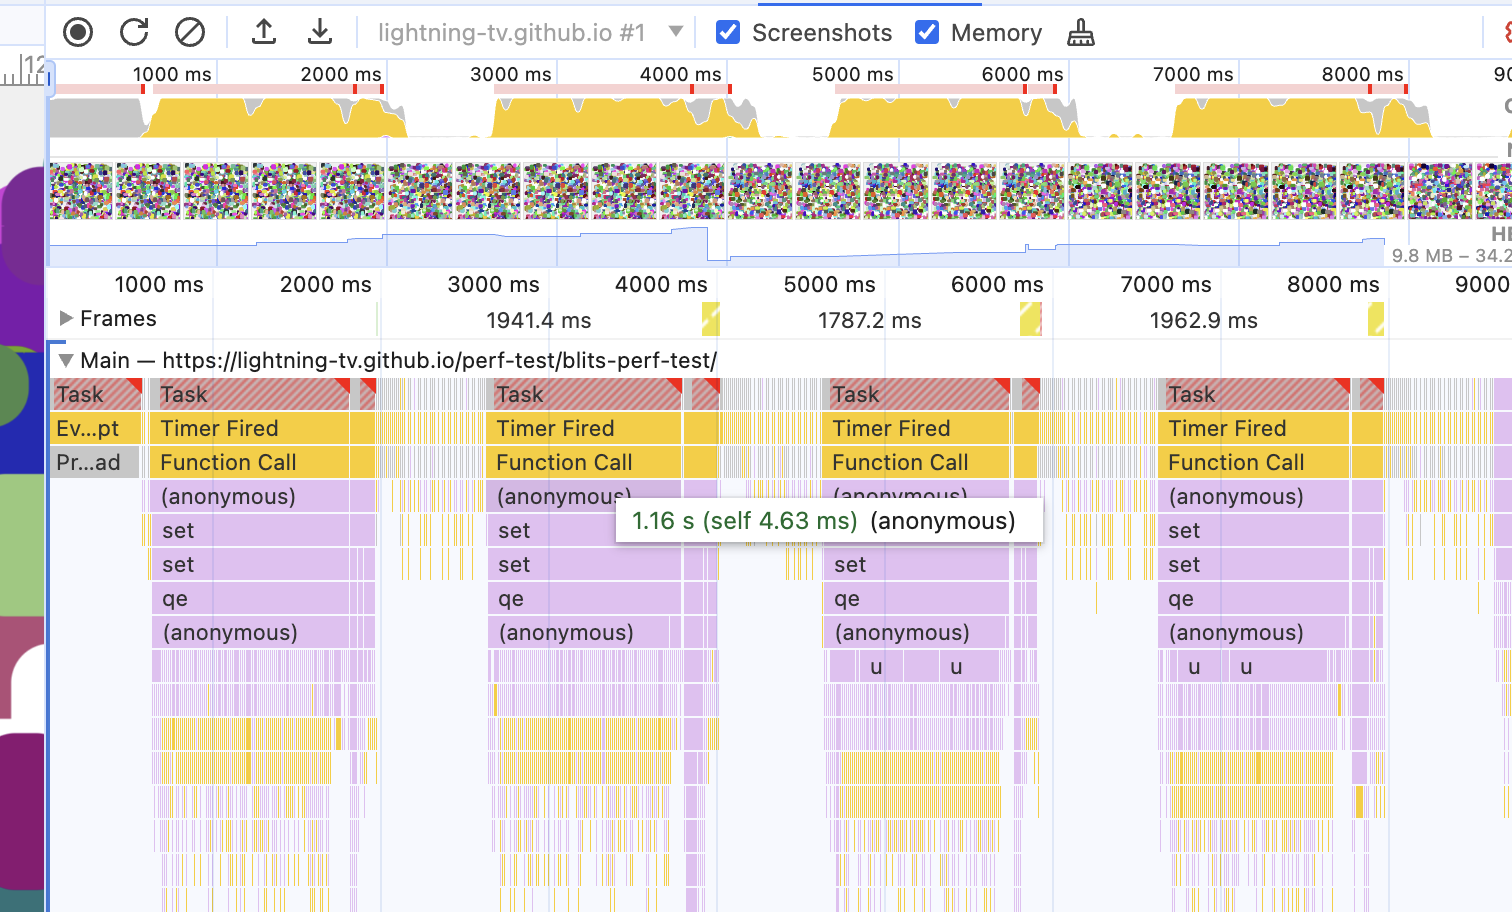
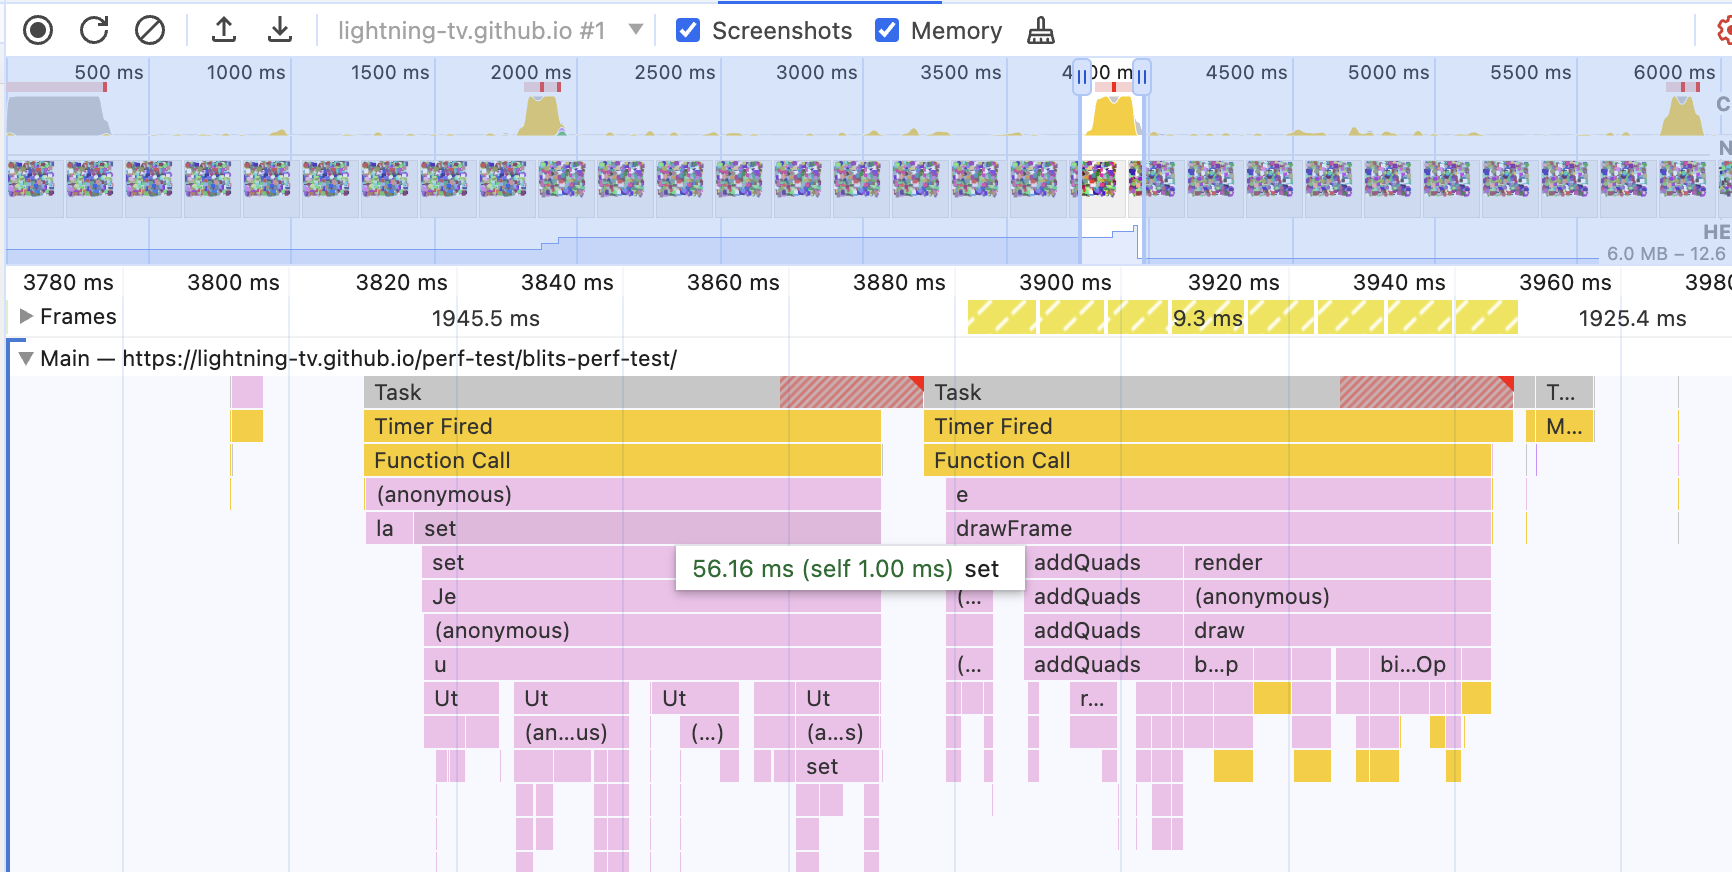
update official results

diff --git a/README.md b/README.md
@@ -6,11 +6,11 @@ Hosted version: https://lightning-tv.github.io/perf-test/
 
 ## Results
 
-Blits: 1160ms
-![Blits Results](official_results/blits.png)
-
-Solid: 65ms
+Solid: <10ms
 ![Solid Results](official_results/solid.png)
+
+Blits: 56ms
+![Blits Results](official_results/blits.png)
 
 Vue: 89ms
 ![Vue Results](official_results/vue.png)
